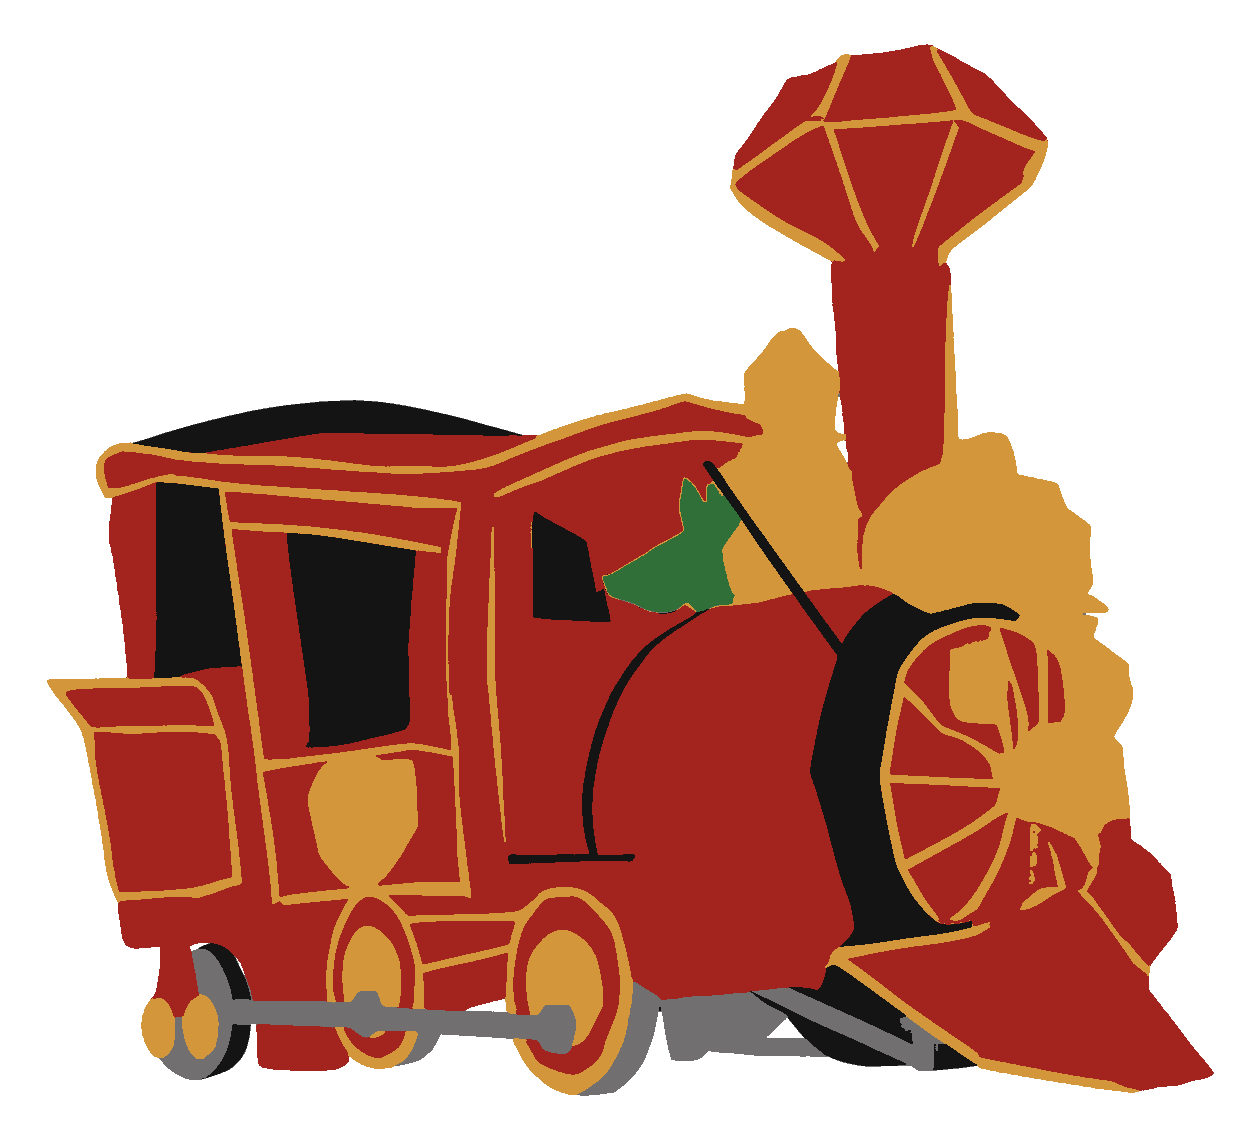
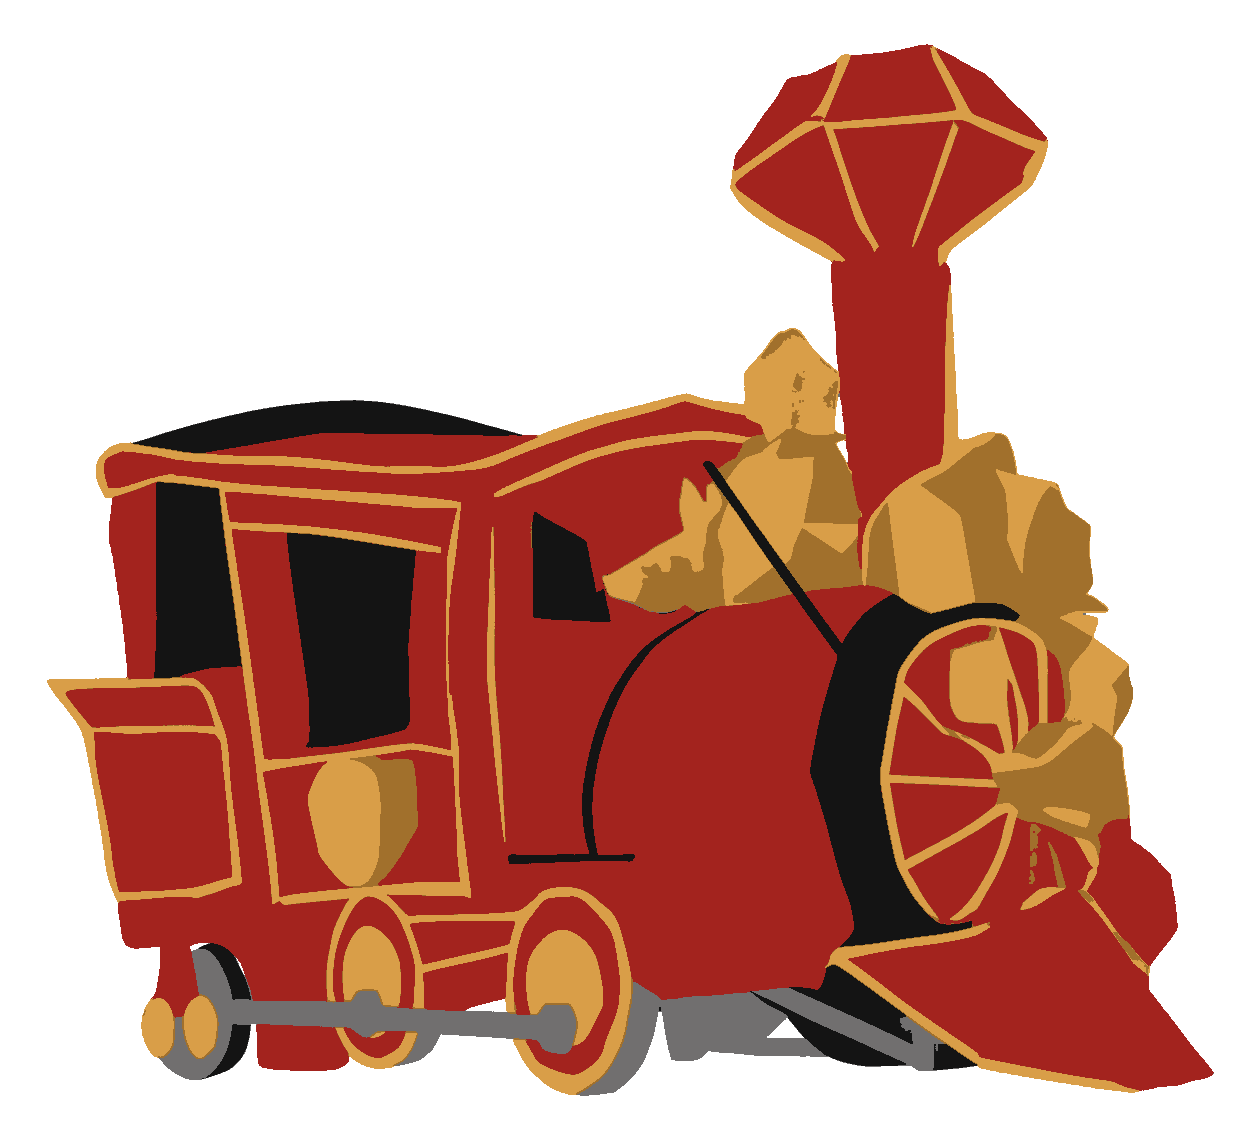
feat(assets): update Simpletrain.png to 5 colors with 2 shades of gold (black, red, grey, light gold, dark gold)

diff --git a/simulator/app.js b/simulator/app.js
@@ -3133,9 +3133,9 @@ const FLOAT_STL_COLOR_CONFIG = {
     'casey_jr_train': {
         'black': { name: "Chassis, Roof & Cab Windows", hex: "#141414", targetRgb: [20, 20, 20], role: "chassis" },
         'red': { name: "Locomotive Body, Smokestack & Cowcatcher", hex: "#a3231e", targetRgb: [163, 35, 30], role: "inlay", filename: "color_red.stl" },
-        'gold': { name: "Piping Trim, Steam, Spokes & Wheels", hex: "#d4963a", targetRgb: [212, 150, 58], role: "inlay", filename: "color_gold.stl" },
-        'grey': { name: "Drive Rod, Wheel Rims & Undercarriage", hex: "#716f6f", targetRgb: [113, 111, 111], role: "inlay", filename: "color_grey.stl" },
-        'green': { name: "Foliage & Collar Accent", hex: "#307038", targetRgb: [48, 112, 56], role: "inlay", filename: "color_green.stl" }
+        'gold': { name: "Bright Gold Trim, Steam & Wheels", hex: "#d99e48", targetRgb: [217, 158, 72], role: "inlay", filename: "color_gold.stl" },
+        'dark_gold': { name: "Shaded Gold / Bronze Steam & Details", hex: "#a1702c", targetRgb: [161, 112, 44], role: "inlay", filename: "color_dark_gold.stl" },
+        'grey': { name: "Drive Rod, Wheel Rims & Undercarriage", hex: "#716f6f", targetRgb: [113, 111, 111], role: "inlay", filename: "color_grey.stl" }
     }
 };
 

diff --git a/scripts/compile_clean_tpu_panel.py b/scripts/compile_clean_tpu_panel.py
@@ -676,9 +676,9 @@ def compile_plate_variant(variant_name, width_mm, height_mm, raw_leds, artwork_p
         stl_colors = {
             'black': { 'name': 'Chassis, Roof & Cab Windows', 'hex': '#141414', 'targetRgb': [20, 20, 20], 'role': 'chassis' },
             'red': { 'name': 'Locomotive Body, Smokestack & Cowcatcher', 'hex': '#a3231e', 'targetRgb': [163, 35, 30], 'role': 'inlay', 'filename': 'color_red.stl' },
-            'gold': { 'name': 'Piping Trim, Steam, Spokes & Wheels', 'hex': '#d4963a', 'targetRgb': [212, 150, 58], 'role': 'inlay', 'filename': 'color_gold.stl' },
-            'grey': { 'name': 'Drive Rod, Wheel Rims & Undercarriage', 'hex': '#716f6f', 'targetRgb': [113, 111, 111], 'role': 'inlay', 'filename': 'color_grey.stl' },
-            'green': { 'name': 'Foliage & Collar Accent', 'hex': '#307038', 'targetRgb': [48, 112, 56], 'role': 'inlay', 'filename': 'color_green.stl' }
+            'gold': { 'name': 'Bright Gold Trim, Steam & Wheels', 'hex': '#d99e48', 'targetRgb': [217, 158, 72], 'role': 'inlay', 'filename': 'color_gold.stl' },
+            'dark_gold': { 'name': 'Shaded Gold / Bronze Steam & Details', 'hex': '#a1702c', 'targetRgb': [161, 112, 44], 'role': 'inlay', 'filename': 'color_dark_gold.stl' },
+            'grey': { 'name': 'Drive Rod, Wheel Rims & Undercarriage', 'hex': '#716f6f', 'targetRgb': [113, 111, 111], 'role': 'inlay', 'filename': 'color_grey.stl' }
         }
     elif is_turtle:
         stl_colors = {

diff --git a/PROJECT_PROGRESS.md b/PROJECT_PROGRESS.md
@@ -93,17 +93,17 @@ This project coordinates synchronized, addressable LED lighting across **7 runne
 
 ## Progress Log
 
-### 2026-10-13 01:45 - 5-Color Transparent `Simpletrain.png` Default Train Graphic & 3D STL Palette
+### 2026-10-13 01:54 - 5-Color Transparent `Simpletrain.png` Default Train Graphic (Black, Red, Grey & 2 Shades of Gold)
 - **Checkerboard Background Removal & Exact 5-Color Quantization (`assets/Simpletrain.png`, `simulator/assets/Simpletrain.png`):**
-  - Removed the gray/white checkerboard background (including enclosed interior pockets between undercarriage bars and smokestack) from `assets/Simpletrain.jpg` and quantized the locomotive into **strictly 5 exact 3D-printing colors** (`1260 × 1140` RGBA PNG):
+  - Removed the gray/white checkerboard background (including enclosed interior pockets between undercarriage bars and smokestack) from `assets/Simpletrain.jpg`, converted the small foliage area into gold, and quantized the locomotive into **strictly 5 exact 3D-printing colors** (`1260 × 1140` RGBA PNG) using 2 shades of gold to preserve all faceted gold shapes:
     1. **Red (Locomotive Body, Smokestack & Cowcatcher):** `RGB(163, 35, 30)` (`#a3231e`, 58.44% of train)
-    2. **Gold (Piping Trim, Steam, Spokes & Wheels):** `RGB(212, 150, 58)` (`#d4963a`, 23.94% of train)
+    2. **Light Gold (Bright Gold Trim, Steam Highlights & Wheels):** `RGB(217, 158, 72)` (`#d99e48`, 17.59% of train)
     3. **Black (Chassis, Roof, Cab Windows & Smokebox Ring):** `RGB(20, 20, 20)` (`#141414`, 12.33% of train)
-    4. **Grey (Drive Rod, Wheel Rims & Undercarriage):** `RGB(113, 111, 111)` (`#716f6f`, 3.99% of train)
-    5. **Green (Foliage & Collar Accent):** `RGB(48, 112, 56)` (`#307038`, 1.30% of train)
+    4. **Dark Gold / Bronze (Shaded Steam Facets, Headlight Cone & Details):** `RGB(161, 112, 44)` (`#a1702c`, 7.66% of train)
+    5. **Grey (Drive Rod, Wheel Rims & Undercarriage):** `RGB(113, 111, 111)` (`#716f6f`, 3.99% of train)
 - **Default Simulator Graphic, 3D STL Palette & Preset LEDs (`simulator/app.js`, `scripts/compile_clean_tpu_panel.py`, `presets/casey_jr_train.json`):**
   - Set `assets/Simpletrain.png` as the default graphic for Float 1 (`casey_jr_train` / The Train) in `simulator/app.js`.
-  - Added `casey_jr_train` / `is_train` 5-color STL segmentation config (`black`, `red`, `gold`, `grey`, `green`) in `simulator/app.js` and `scripts/compile_clean_tpu_panel.py`, plus 5-color LED vibrancy mapping and updated 100-LED preset coordinates in `presets/casey_jr_train.json`.
+  - Added `casey_jr_train` / `is_train` 5-color STL segmentation config (`black`, `red`, `gold`, `dark_gold`, `grey`) in `simulator/app.js` and `scripts/compile_clean_tpu_panel.py`.
 
 ### 2026-10-13 01:05 - Transparent `SimpleSnail.png` Default Snail Graphic & Per-Float Live Contour Re-distribute Fix
 - **Transparent Background Conversion (`assets/SimpleSnail.png`, `simulator/assets/SimpleSnail.png`, `simulator/app.js`):**
